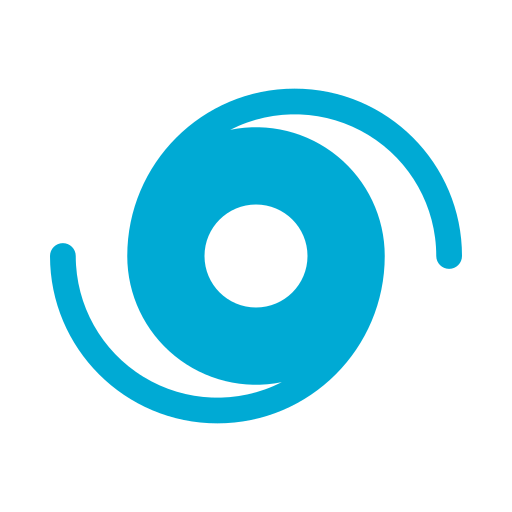
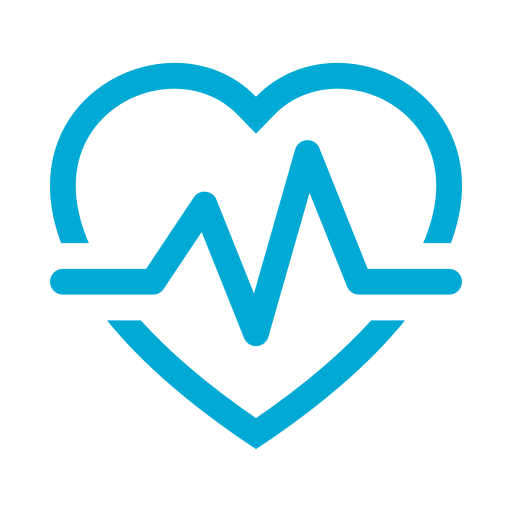
m.e.

Changed region(s): [[0.0938, 0.125, 0.9062, 0.875]]

diff --git a/index.html b/index.html
@@ -273,7 +273,7 @@
         <div class="fbar"></div>
 
         <div class="text-center" style="color: #999;">
-            <i class="bi bi-hurricane text-muted"></i> &nbsp;
+            <i class="bi bi-heart-pulse text-muted"></i> &nbsp;
             <a href="./">CentralGenomics</a>
         </div>
 
